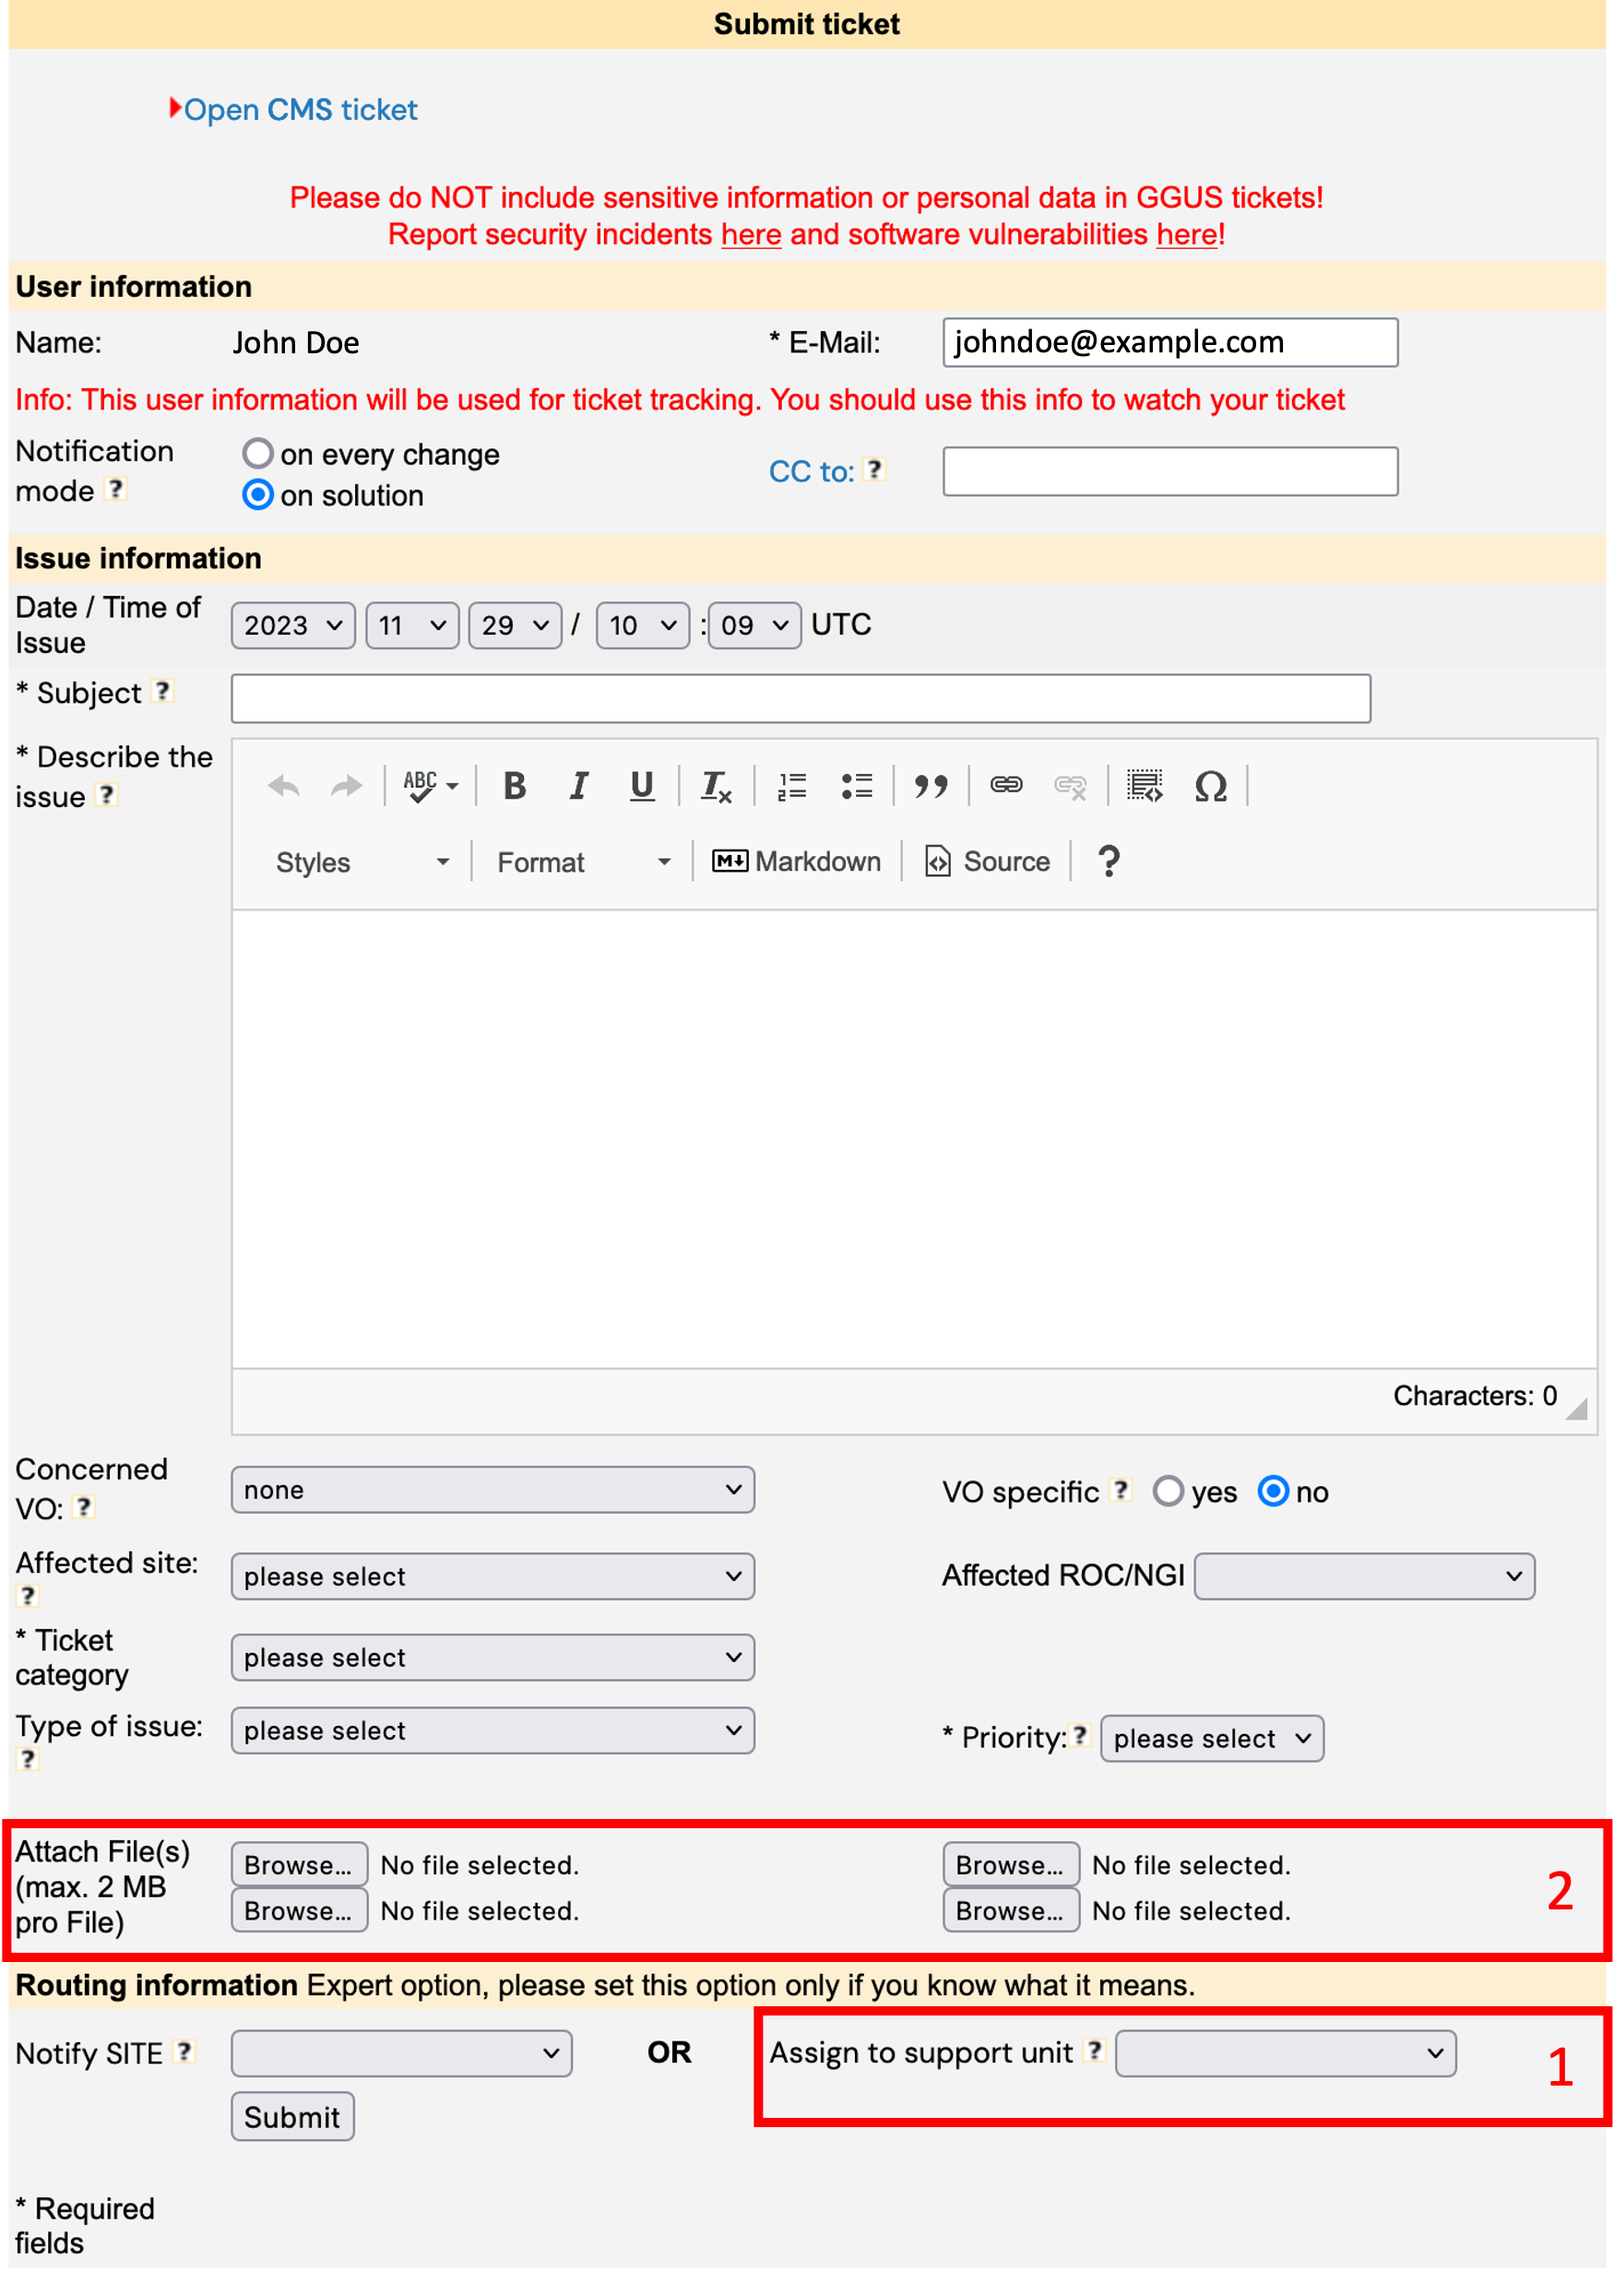
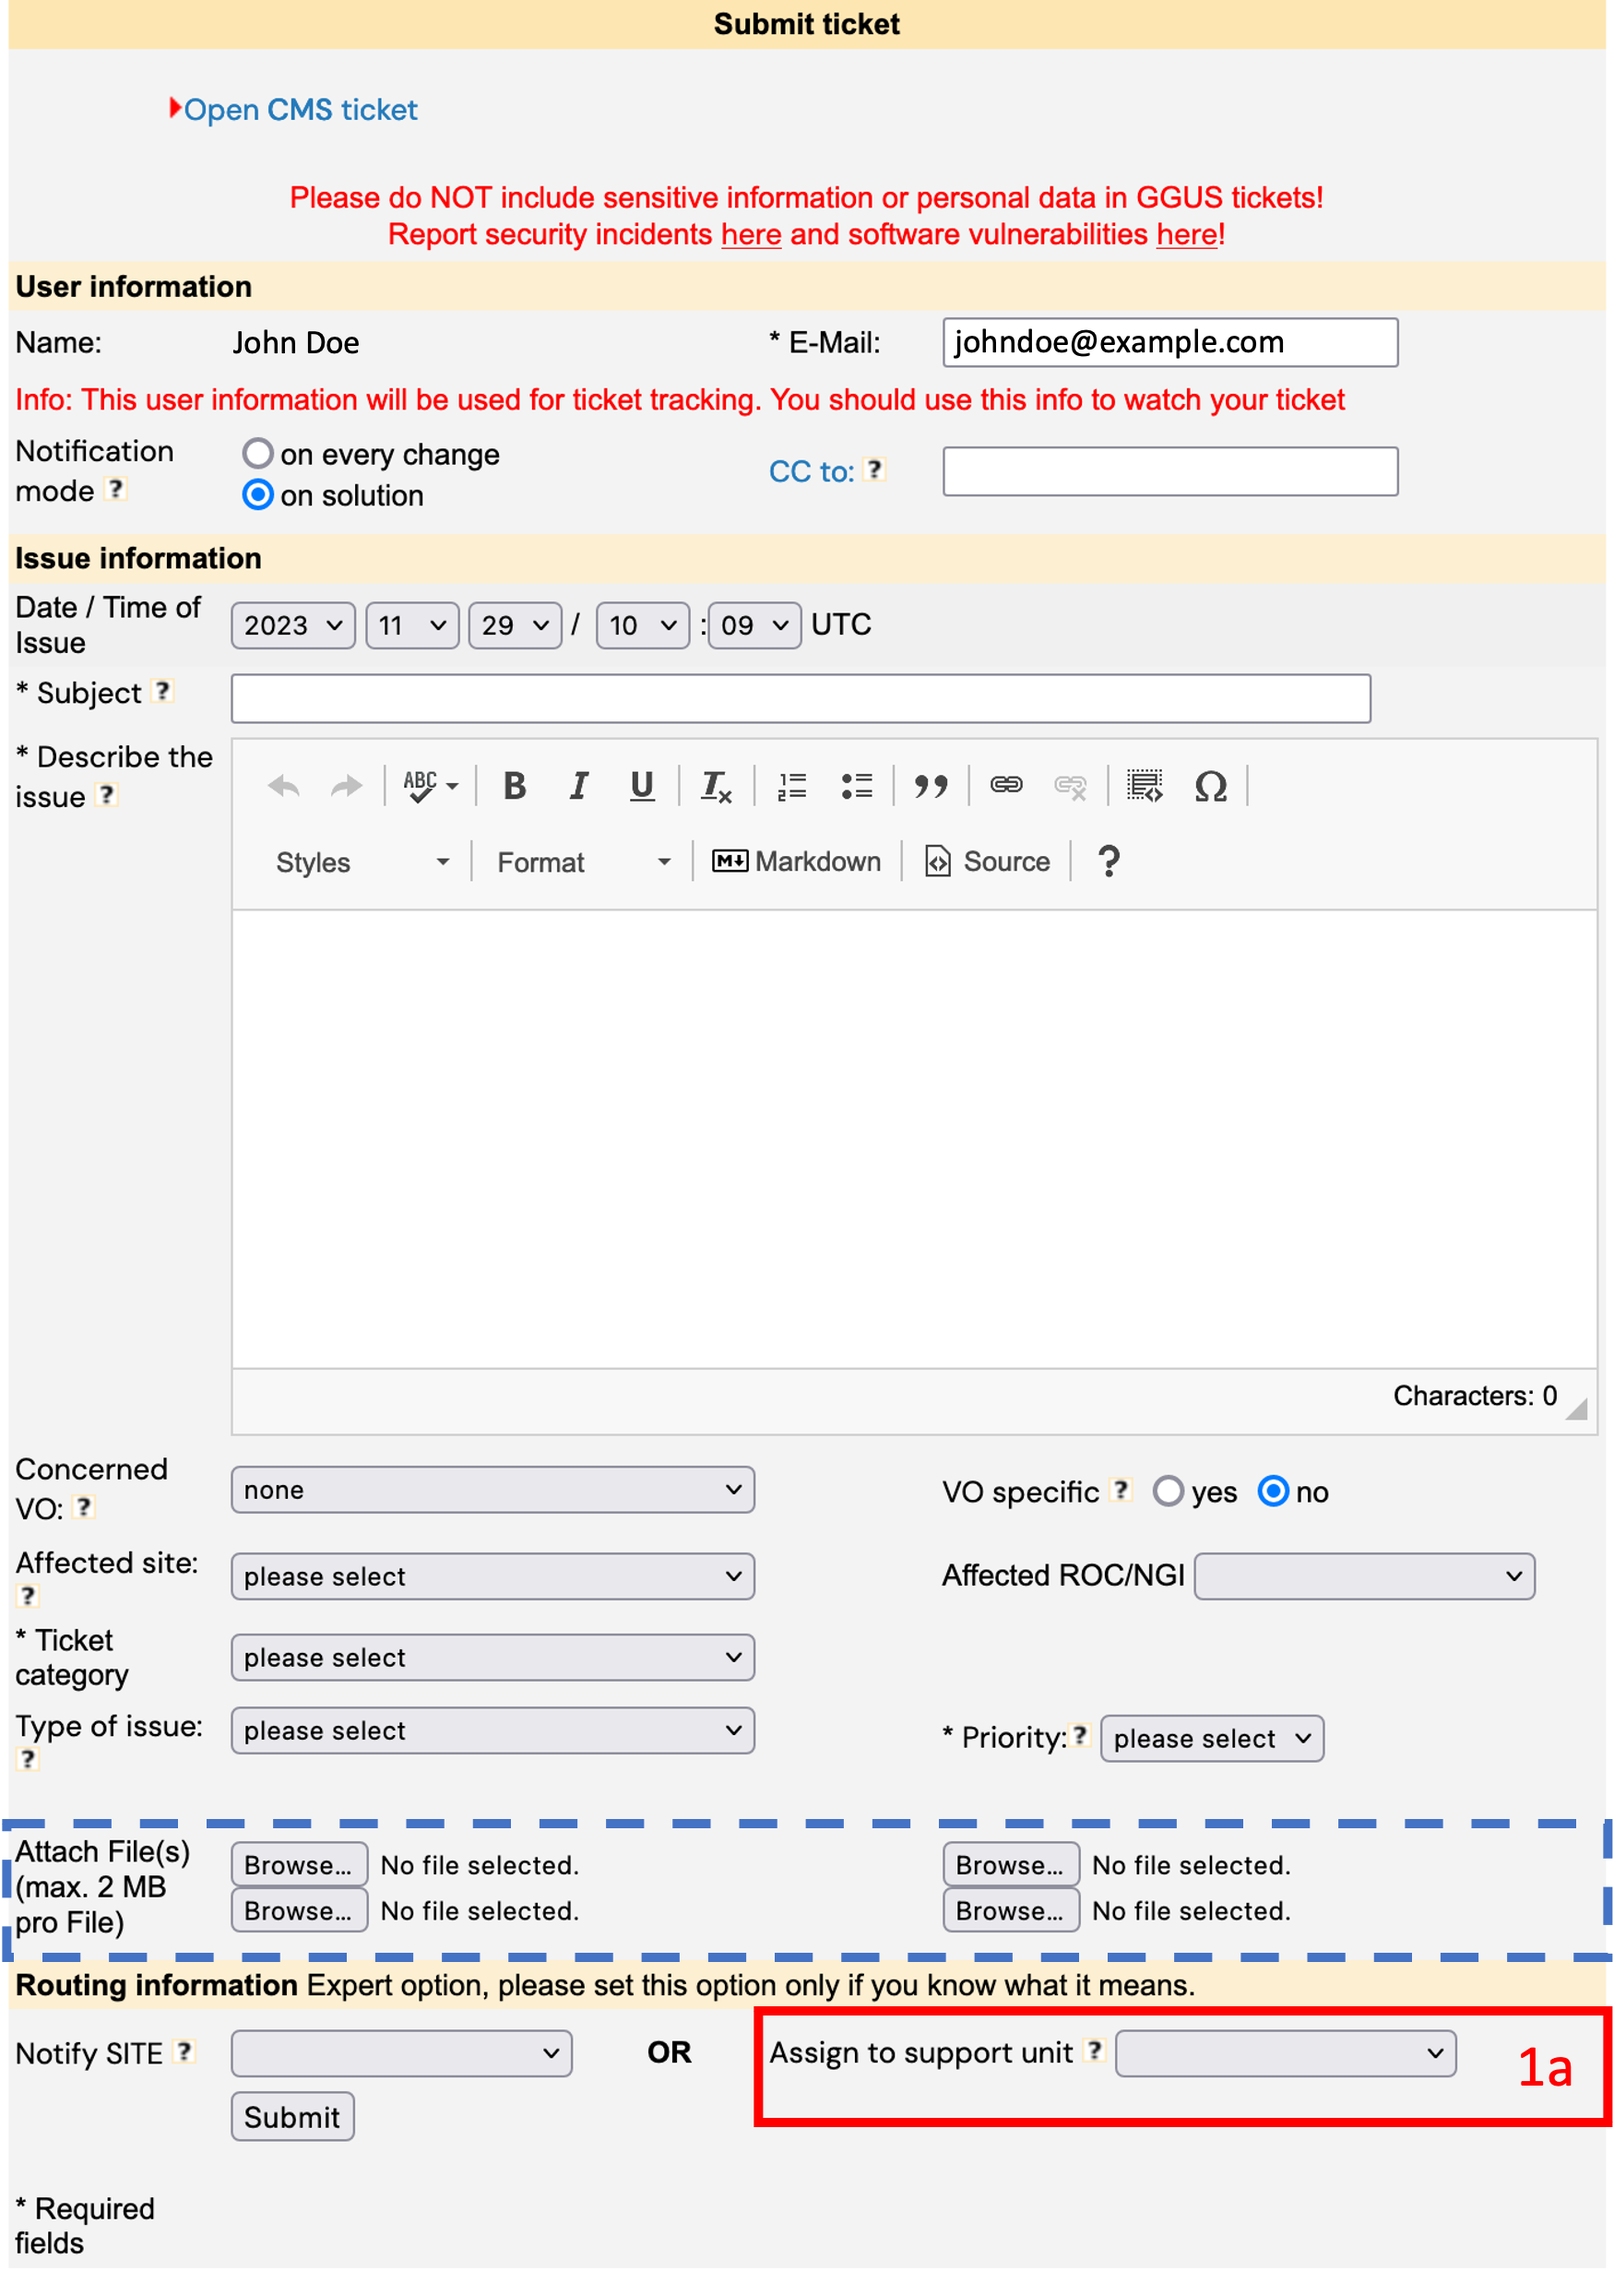
Support page - update GGUS instructions & figures

Changed region(s): [[0.0, 0.7778, 1.0, 0.8711], [0.9566, 0.9022, 0.9874, 0.9333]]

diff --git a/templates/support.html b/templates/support.html
@@ -7,7 +7,7 @@
 {% block content %}
 <h1>{{ title }}</h1>
 <div class="row">
-    <div class="col-lg-7">
+    <div class="col-xl-7 col-lg-9">
         <hr class="mt-3 mb-4">
     </div>
 </div>
@@ -16,7 +16,7 @@
         <div class="col-lg-12">
             <h2>Help</h2>
         </div>
-        <div class="col-lg-7">
+        <div class="col-xl-7 col-lg-9">
             <p>
                 We are currently working on adding <a href="{% url 'help:index' %}">help articles</a>
                 to the e-Science Centre. If what is currently available does not meet your needs, we
@@ -33,7 +33,7 @@
     </div>
 </section>
 <div class="row">
-    <div class="col-lg-7">
+    <div class="col-xl-7 col-lg-9">
         <hr class="my-4">
     </div>
 </div>
@@ -43,59 +43,78 @@
             <div class="col-lg-12">
                 <h2 id="support-heading" class="mb-3">Contact Support</h2>
             </div>
-            <div class="col-lg-7">
+            <div class="col-xl-7 col-lg-9">
                 <section>
                     <h3>Raise a Ticket</h3>
                     <p>
-                        You will need to create or log in to an EGI Check-in account to submit a ticket as
-                        we use the GGUS helpdesk service for managing tickets. You will be asked to do so
-                        before starting your ticket.
+                        You can raise a ticket via the external GGUS helpdesk service.
+                        To use GGUS, you will need to sign up/log in with an EGI
+                        Check-in account, which GGUS will ask for before starting your
+                        ticket.
                     </p>
                 </section>
             </div>
-            <div class="col-lg-7">
-                <h3 id="ggus-instructions-heading" class="mb-3">Before Submitting Your Ticket</h3>
-                <p>
-                    The points below provide instructions and suggestions to follow/consider
-                    before submitting your ticket.
-                </p>
+            <div class="col-xl-7 col-lg-9">
+                <h3 id="ggus-instructions-heading" class="fs-4">Assign your Ticket to the PITHIA e-Science Centre Support Unit</h3>
+                <ul class="list-unstyled">
+                    <li>
+                        <div class="alert alert-light my-4">
+                            <p class="d-flex align-items-baseline">
+                                <svg xmlns="http://www.w3.org/2000/svg" width="16" height="16" fill="currentColor" class="bi bi-exclamation-circle-fill flex-shrink-0 me-3" viewBox="0 0 16 16" style="transform: translateY(0.125rem);">
+                                    <path d="M16 8A8 8 0 1 1 0 8a8 8 0 0 1 16 0M8 4a.905.905 0 0 0-.9.995l.35 3.507a.552.552 0 0 0 1.1 0l.35-3.507A.905.905 0 0 0 8 4m.002 6a1 1 0 1 0 0 2 1 1 0 0 0 0-2"/>
+                                </svg>
+                                <span class="d-inline-flex flex-column">
+                                    <span class="fw-bold">
+                                        Assign your ticket to the PITHIA e-Science Centre support unit (SU) to ensure
+                                        it reaches us.
+                                    </span>
+                                </span>
+                            </p>
+                            <p>If appropriate, also consider attaching screenshots and/or files to help us better understand the ticket.</p>
+                            <details>
+                                <summary class="fw-bold">GGUS Ticket Form Guide</summary>
+                                <div class="d-flex flex-column row-gap-3">
+                                    <p class="mb-0">
+                                        From the ticket form:
+                                        <ol>
+                                            <li>
+                                                Open the <em>Assign to support unit</em> dropdown menu in the bottom-right of the ticket form.
+                                            </li>
+                                            <li>
+                                                Select "PITHIA e-Science Centre" (under the "PITHIA Community" group) within the menu.
+                                            </li>
+                                        </ol>
+                                    </p>
+                                    <figure>
+                                        <figcaption>The ticket form:</figcaption>
+                                        <img src="{% static 'help/ggus_ticket_form_annotated.png' %}" class="img-fluid" alt="A screenshot of the GGUS ticket form with two red boxes highlighting key sections of the form. The first red box, labelled '1', highlights the 'Assign to support unit' field. The second red box, labelled '2', highlights the file input fields.">
+                                    </figure>
+                                    <div class="row">
+                                        <div class="col-lg-6">
+                                            <figure>
+                                                <figcaption>Assigning a support unit:</figcaption>
+                                                <img src="{% static 'help/ggus_ticket_form_assign_su.png' %}" class="w-100" style="max-width: 20rem;" alt="A cropped screenshot of the GGUS ticket form showing the 'PITHIA e-Science Centre' support unit option highlighted within the dropdown menu for the 'Assign to support unit' field.">
+                                            </figure>
+                                        </div>
+                                        <div class="col-lg-6">
+                                            <figure>
+                                                <figcaption>Attaching files:</figcaption>
+                                                <div class="d-flex flex-column row-gap-2">
+                                                    <img src="{% static 'help/ggus_ticket_form_attach_files_1.png' %}" class="w-100" style="max-width: 20rem;" alt="A cropped screenshot of the GGUS ticket form showing the file upload fields.">
+                                                    <img src="{% static 'help/ggus_ticket_form_attach_files_2.png' %}" class="w-100" style="max-width: 20rem;" alt="A cropped screenshot of the GGUS ticket form showing the file upload fields.">
+                                                </div>
+                                            </figure>
+                                        </div>
+                                    </div>
+                                </div>
+                            </details>
+                        </div>
+                    </li>
+                </ul>
+                <a href="https://ggus.eu/index.php?mode=ticket_submit" target="_blank" id="raise-ticket-link" class="btn btn-outline-dark btn-lg fw-bold">
+                    Raise a ticket with GGUS</a>
             </div>
         </div>
-        <article>
-            <div class="row flex-column g-md-5 g-4">
-                <div class="col-lg-5">
-                    <div class="d-flex flex-column align-items-end row-gap-5">
-                        <img src="{% static 'help/ggus_ticket_form_annotated.png' %}" class="img-fluid" alt="A screenshot of the GGUS ticket form with two red boxes highlighting key sections of the form. The first red box, labelled '1', highlights the 'Assign to support unit' field. The second red box, labelled '2', highlights the file input fields.">
-                    </div>
-                </div>
-                <div class="col-lg-7">
-                    <h4><span class="me-2">1.</span> Assign the right support unit</h4>
-                    <div class="alert alert-light my-4">
-                        <svg xmlns="http://www.w3.org/2000/svg" width="16" height="16" fill="currentColor" class="bi bi-exclamation-circle-fill me-3" viewBox="0 0 16 16">
-                            <path d="M16 8A8 8 0 1 1 0 8a8 8 0 0 1 16 0M8 4a.905.905 0 0 0-.9.995l.35 3.507a.552.552 0 0 0 1.1 0l.35-3.507A.905.905 0 0 0 8 4m.002 6a1 1 0 1 0 0 2 1 1 0 0 0 0-2"/>
-                        </svg>Completing this instruction will ensure your ticket reaches our support team.
-                    </div>
-                    <p>
-                        The support unit can be assigned from the dropdown menu for the <em>Assign
-                        to support unit</em> field (bottom-right of the ticket form). Within this,
-                        select "PITHIA e-Science Centre" under the "PITHIA Community" dropdown group.
-                    </p>
-                    <img src="{% static 'help/ggus_ticket_form_assign_su.png' %}" class="w-100" style="max-width: 20rem;" alt="A cropped screenshot of the GGUS ticket form showing the 'PITHIA e-Science Centre' support unit option highlighted within the dropdown menu for the 'Assign to support unit' field.">
-                    <h4 class="mt-5"><span class="me-2">2.</span> Attach files</h4>
-                    <p>
-                        If applicable, attach relevant files (e.g., a file that failed metadata validation) or
-                        screenshots of any errors to help us to better understand your problem.
-                    </p>
-                </div>
-                <div class="col-lg-12">
-                    <div class="d-flex justify-content-lg-start justify-content-center">
-                        <a href="https://ggus.eu/index.php?mode=ticket_submit" target="_blank" id="raise-ticket-link" class="btn btn-outline-dark btn-lg fw-bold">
-                            Raise a ticket
-                        </a>
-                    </div>
-                </div>
-            </div>
-        </article>
     </div>
 </section>
 {% endblock content %}
